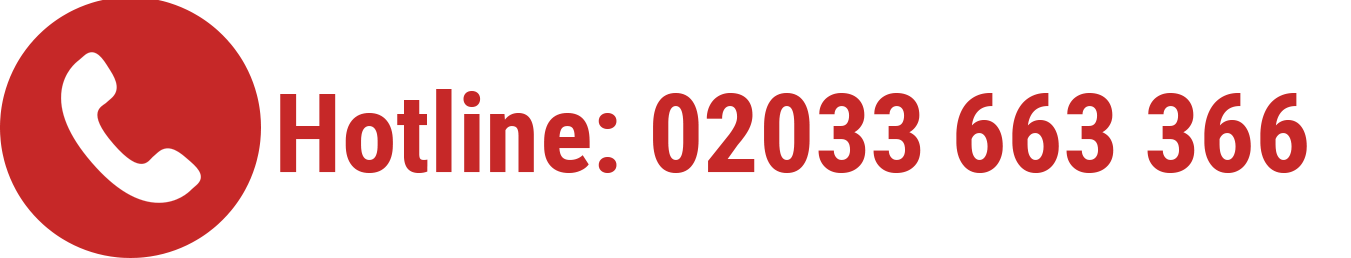
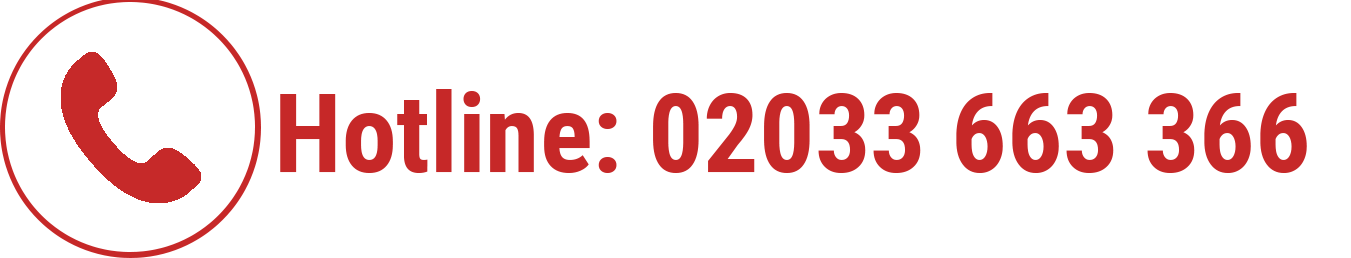
sua header

Changed region(s): [[0.0, 0.0, 0.1865, 0.9922]]

diff --git a/themes/4/statics/js/anvui.js b/themes/4/statics/js/anvui.js
@@ -914,10 +914,24 @@ function selectTripRoundWay(trip) {
                 for (var column = 1; column < data.seatMap.numberOfColumns + 1; column++) {
                     coghe = false;
                     iddd = '';
+
                     seatInfoReturn = data.seatMap.seatList;// lay du lieu seatMap
                     $.each(data.seatMap.seatList, function (index, val) {
                         var id = val['seatId'];
                         var id1 = id.replace(',', '_');
+
+                        var ticketStatus = 1;
+
+                        if(val['listTicketId'].length > 0) {
+                            var lastTicketId =val['listTicketId'][val['listTicketCode'].length - 1];
+                        }
+
+                        if(typeof lastTicketId !== 'undefined' && typeof val['ticketInfo'] !== 'undefined') {
+                            ticketStatus = val['ticketInfo'][lastTicketId]['ticketStatus'];
+                        } else {
+                            ticketStatus = val['seatStatus'];
+                        }
+
                         iddd = floor + ' ' + row + ' ' + column;
                         if(val['floor'] != floor || val['row'] != row || val['column'] != column) {
                             // coghe = false;
@@ -928,12 +942,12 @@ function selectTripRoundWay(trip) {
                                 html += '<div class="col-md-2 col-sm-2 col-xs-2 ghe-' + data.seatMap.numberOfColumns + '"><div class="chonghe driver"></div></div>';
                             } else if(val['seatType'] == 1 || val['seatType'] == 5 || val['seatType'] == 6) { // Lần lượt là cửa cửa, Wc, phụ
                                 html += '<div class="col-md-2 col-sm-2 col-xs-2 ghe-' + data.seatMap.numberOfColumns + '"><div class="chonghe"></div></div>';
-                            } else if((val['seatStatus'] == 2 && val['overTime'] < Date.now() && val['overTime'] != 0) || val['seatStatus'] == 1) {
+                            } else if((ticketStatus == 2 && (val['overTime'] > Date.now() || val['overTime'] == 0)) || ticketStatus == 7) {
+                                html += '<div class="col-md-2 col-sm-2 col-xs-2 ghe-' + data.seatMap.numberOfColumns + '"><div class="chonghe ghedaban"></div></div>';
+                            } else {
                                 html += '<div class="col-md-2 col-sm-2 col-xs-2 ghe-' + data.seatMap.numberOfColumns + '">' +
                                     '<div class="chonghe ghetrong" id="chongheve_' + id1 + '" onclick="chongheve(\'' + id + '\')" data-over="' + val['overTime'] + '">' +
                                     '</div></div>';
-                            } else {
-                                html += '<div class="col-md-2 col-sm-2 col-xs-2 ghe-' + data.seatMap.numberOfColumns + '"><div class="chonghe ghedaban"></div></div>';
                             }
                         }
                     });

diff --git a/themes/4/common/position_top.htm b/themes/4/common/position_top.htm
@@ -49,7 +49,7 @@
                         </form>-->
 
                         <a href="call:02033663366">
-                            <img class="img-responsive" style="margin-top: 40px;" src="{$web['static_temp']}/{$web['temp']}/statics/images/hot-line.png" alt="Hot Line">
+                            <img style="margin-top: 30px;width: 200px;margin-left: -55px;" src="{$web['static_temp']}/{$web['temp']}/statics/images/hot-line.png" alt="Hot Line">
                         </a>
 
                     </div>
@@ -58,7 +58,7 @@
         </div>
     </div>
     <div class="container-fluid menu">
-        <div class="main-menu visible-lg visible-md visible-sm">
+        <div class="container main-menu visible-lg visible-md visible-sm">
             <!--{temp common/menu_top}-->
         </div>
         <div class="main-menu-mobile visible-xs">

diff --git a/themes/4/statics/css/main.css b/themes/4/statics/css/main.css
@@ -65,11 +65,10 @@ a:hover {
 }
 
 .main-menu-level {
-    float: left;
     height: 3.6875rem;
-    margin: 5px 0 0 15px;
     overflow: hidden;
-    text-align: right;
+    float: none;
+    margin: 0 auto;
 }
 
 .mainmenu-level-item {
@@ -89,9 +88,9 @@ a:hover {
     text-decoration: none;
 }
 
-/*.main-menu-level a:hover {
-    color: #c1112c;
-}*/
+.main-menu-level a:hover {
+    color: #ffff00;
+}
 
 .title {
     font-size: 20px;
@@ -511,10 +510,9 @@ footer {
     clear: both;
     position: fixed;
     /*top: 10px;*/
-    right: 100px;
+    right: 25px;
     /*bottom: 0;*/
     z-index: 10;
-    width: 380px;
 }
 
 @media screen and (max-width: 768px) {
